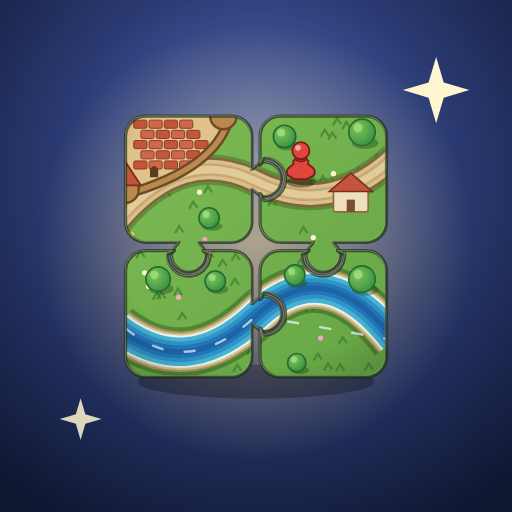
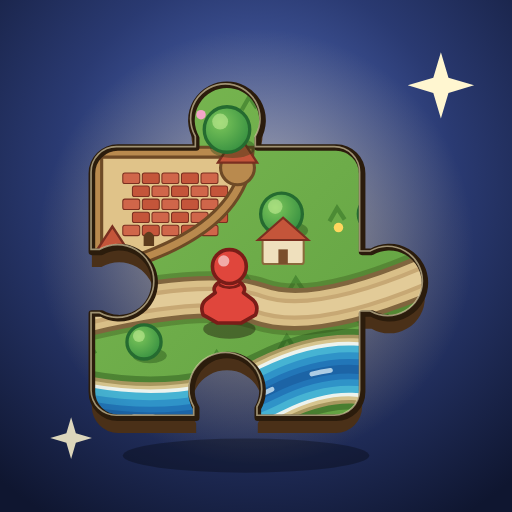
feat(brand): иконка — один большой пазл с игровой картой
Claude-Session: https://claude.ai/code/session_01ChnK81F671HkeSg92eKK8m

diff --git a/scripts/gen-icon.py b/scripts/gen-icon.py
@@ -1,24 +1,106 @@
 #!/usr/bin/env python3
-"""Builds the launcher icon (four game cards assembled into one puzzle) from the splash artwork in web/game.html.
-Writes store/src/icon.svg, icon-foreground.svg, icon-background.svg; then run `node scripts/render-icons.js`."""
-import re, pathlib
+"""Builds the launcher icon: ONE big jigsaw piece painted like a game card (city, road, river, trees, a meeple).
+Writes store/src/icon.svg, icon-foreground.svg, icon-background.svg; then run `node scripts/render-icons.cjs`."""
+import math, random, pathlib
 root = pathlib.Path(__file__).resolve().parent.parent
-html = (root / 'web/game.html').read_text(encoding='utf8')
-m = re.search(r'<svg class="bootpz"[^>]*>(.*?)</svg>', html, re.S)
-art = re.sub(r'<rect class="sh"[^>]*/>', '', m.group(1))
-S, CX, CY = 0.43, 54, 52          # scale of the 160-unit splash art and where its centre (78,78) lands in the 108 canvas
-T = f'translate({CX} {CY}) scale({S}) translate(-78 -78)'
-defs_extra = '''<radialGradient id="ibg" cx="50%" cy="34%" r="78%"><stop offset="0" stop-color="#5a74c4"/><stop offset=".5" stop-color="#2a3a72"/><stop offset="1" stop-color="#0f1630"/></radialGradient>
+random.seed(11)
+B, RC, NECK, NH, HR = 57, 5.5, 6.5, 2, 7.5           # body size, corner radius, half neck, neck length, knob radius
+KN = NH + math.sqrt(HR * HR - NECK * NECK) + HR  # how far a knob sticks out
+# knobs clockwise from the top: +1 out, -1 in (top out, right out, bottom in, left in)
+SIDES = [1, 1, -1, -1]
+OX, OY = 54 - B / 2 + 0, 54 - B / 2 + 0          # body origin before centring tweak
+# bounding box of the knobs: top and right stick out, so move the body down-left to centre the whole piece
+OX -= KN / 2 - .5; OY += KN / 2 - 1
+
+def pt(p0, d, n, u, v): return (p0[0] + d[0] * u + n[0] * v, p0[1] + d[1] * u + n[1] * v)
+def f(p): return f'{p[0]:.2f} {p[1]:.2f}'
+def piece_path(ox, oy):
+    c = [(ox, oy), (ox + B, oy), (ox + B, oy + B), (ox, oy + B)]
+    dirs = [(1, 0), (0, 1), (-1, 0), (0, -1)]
+    outs = [(0, -1), (1, 0), (0, 1), (-1, 0)]
+    out = ''
+    for i in range(4):
+        p0, d, n, s = c[i], dirs[i], outs[i], SIDES[i]
+        L, M = B, B / 2
+        a = pt(p0, d, n, RC, 0)
+        out += (f'M{f(a)}' if i == 0 else f'A{RC} {RC} 0 0 1 {f(a)}')
+        out += f'L{f(pt(p0, d, n, M - NECK, 0))}'
+        out += f'L{f(pt(p0, d, n, M - NECK, s * NH))}'
+        out += f'A{HR} {HR} 0 1 {1 if s > 0 else 0} {f(pt(p0, d, n, M + NECK, s * NH))}'
+        out += f'L{f(pt(p0, d, n, M + NECK, 0))}'
+        out += f'L{f(pt(p0, d, n, L - RC, 0))}'
+    out += f'A{RC} {RC} 0 0 1 {f(pt(c[0], dirs[0], outs[0], RC, 0))}Z'
+    return out
+
+def tufts(x0, y0, x1, y1, n):
+    s = ''
+    for _ in range(n):
+        x, y = random.uniform(x0, x1), random.uniform(y0, y1)
+        s += f'<path d="M{x-1.6:.1f} {y:.1f}L{x:.1f} {y-2.8:.1f}L{x+1.6:.1f} {y-.4:.1f}" stroke="#3f7d2c" stroke-width=".9" fill="none" opacity=".7"/>'
+    for _ in range(9):
+        x, y = random.uniform(x0, x1), random.uniform(y0, y1)
+        s += f'<circle cx="{x:.1f}" cy="{y:.1f}" r="1" fill="{random.choice(["#fff6d8","#ffd75e","#f3a6c8"])}"/>'
+    return s
+def tree(x, y, r=5):
+    return (f'<ellipse cx="{x+1.2}" cy="{y+r*.8}" rx="{r}" ry="{r*.45}" fill="rgba(20,60,15,.35)"/>'
+            f'<circle cx="{x}" cy="{y}" r="{r}" fill="url(#itree)" stroke="#256b30" stroke-width=".7"/>'
+            f'<circle cx="{x-r*.3}" cy="{y-r*.35}" r="{r*.35}" fill="rgba(210,245,160,.5)"/>')
+def house(x, y, k=1.0):
+    return (f'<g transform="translate({x} {y}) scale({k})"><rect x="0" y="0" width="14" height="9" rx=".8" fill="#efe0bd" stroke="#8a6a3c" stroke-width=".7"/>'
+            '<path d="M-1.6 .8L7 -6.8L15.6 .8Z" fill="#c4553a" stroke="#7a2f20" stroke-width=".7"/><rect x="5.4" y="4" width="3.2" height="5" fill="#7a4f2c"/></g>')
+def stroked(d, layers):
+    return ''.join(f'<path d="{d}" fill="none" stroke="{c}" stroke-width="{w}" stroke-linecap="butt"/>' for w, c in layers)
+ROAD = [(11, 'rgba(60,90,30,.4)'), (9, '#80653e'), (7, '#d9bf88'), (4.4, '#c7a874'), (2.6, '#e2cb98')]
+RIVER = [(17, 'rgba(30,70,20,.4)'), (14.5, '#a8975f'), (13, '#d6c48e'), (11.5, 'rgba(240,252,255,.85)'), (10, '#46b3d3'), (7, '#2f93c8'), (4.2, '#2276b8'), (1.8, '#1c64a6')]
+def city(bx, by):
+    k = .55
+    bricks = ''
+    for r, y in enumerate([16, 21, 26, 31, 36]):
+        for q in range(5):
+            x = 18 + q * 7.5 + (3.7 if r % 2 else 0)
+            bricks += f'<rect x="{x:.1f}" y="{y}" width="6.5" height="4" rx=".8" fill="{"#c4553a" if (q + r) % 2 else "#d0664a"}" stroke="#7a2f20" stroke-width=".4"/>'
+    wall = 'M8 8L66 8Q64 40 8 54Z'
+    return (f'<g transform="translate({bx-8*k+1:.1f} {by-8*k+1:.1f}) scale({k})"><path d="{wall}" fill="#e0c389"/>{bricks}'
+            f'<path d="{wall}" fill="none" stroke="#6e4a26" stroke-width="5"/><path d="{wall}" fill="none" stroke="#b98a4e" stroke-width="2.6"/>'
+            '<circle cx="62" cy="14" r="6.5" fill="#b98a4e" stroke="#6e4a26" stroke-width="1.2"/><path d="M54.5 12L62 .5L69.5 12Z" fill="#c4553a" stroke="#7a2f20" stroke-width=".9"/>'
+            '<circle cx="14" cy="50" r="6.5" fill="#b98a4e" stroke="#6e4a26" stroke-width="1.2"/><path d="M6.5 48L14 36.5L21.5 48Z" fill="#c4553a" stroke="#7a2f20" stroke-width=".9"/>'
+            '<path d="M26 44L30 44L30 40Q28 37 26 40Z" fill="#5d3c1d"/></g>')
+def meeple(x, y, k=1.0):
+    return (f'<g transform="translate({x} {y}) scale({k})"><ellipse cx="0" cy="1.5" rx="6.5" ry="2.4" fill="rgba(30,25,10,.45)"/>'
+      '<path d="M-3 0L-6.5-2Q-7.5-4.5-5.5-6L-3.5-7.5Q-4.5-9-2-10.5L2-10.5Q4.5-9 3.5-7.5L5.5-6Q7.5-4.5 6.5-2L3 0Z" fill="#e0463c" stroke="#7a1d18" stroke-width=".9" stroke-linejoin="round"/>'
+      '<circle cx="0" cy="-14" r="4.2" fill="#e0463c" stroke="#7a1d18" stroke-width=".9"/><circle cx="-1.4" cy="-15.4" r="1.4" fill="rgba(255,255,255,.55)"/>'
+      '<path d="M-2.6-9.5Q0-8 2.6-9.5" stroke="#7a1d18" stroke-width=".7" fill="none"/></g>')
+
+ox, oy = OX, OY
+P = piece_path(ox, oy)
+road = f'M{ox-4} {oy+36}Q{ox+24} {oy+29} {ox+B*.62:.1f} {oy+33}T{ox+B+KN} {oy+27}'
+river = f'M{ox-4} {oy+B-2}Q{ox+20} {oy+B+3} {ox+38} {oy+B-6}T{ox+B+KN} {oy+B-5}'
+art = (f'<rect x="0" y="0" width="108" height="108" fill="url(#igrass)"/>' + tufts(ox - 8, oy - 12, ox + B + 13, oy + B, 26) +
+       stroked(road, ROAD) + stroked(river, RIVER) +
+       f'<path d="{river}" fill="none" stroke="rgba(235,250,255,.7)" stroke-width="1" stroke-dasharray="4 9" stroke-linecap="round"/>' +
+       city(ox, oy) + tree(ox + B / 2, oy - NH - 1.8, 4.8) + tree(ox + B + 3, oy + 14, 3.8) + tree(ox + 40, oy + 14, 4.4) + tree(ox + 11, oy + 41, 3.6) +
+       house(ox + 36, oy + 19, .62) + meeple(ox + 29, oy + 37, .85) +
+       '<rect width="108" height="108" fill="url(#ivig)"/>')
+defs = f'''<defs>
+<radialGradient id="ibg" cx="50%" cy="34%" r="78%"><stop offset="0" stop-color="#5a74c4"/><stop offset=".5" stop-color="#2a3a72"/><stop offset="1" stop-color="#0f1630"/></radialGradient>
 <radialGradient id="iglow" cx="50%" cy="50%" r="50%"><stop offset="0" stop-color="#ffd878" stop-opacity=".55"/><stop offset="1" stop-color="#ffd878" stop-opacity="0"/></radialGradient>
-<linearGradient id="irim" x1="0" y1="0" x2="0" y2="1"><stop offset="0" stop-color="#fff2c4"/><stop offset="1" stop-color="#e9a52e"/></linearGradient>'''
-spark = '<path d="M92 12L93.6 17.4L99 19L93.6 20.6L92 26L90.4 20.6L85 19L90.4 17.4Z" fill="#fff6d0"/><path d="M17 84L18 87.4L21.4 88.4L18 89.4L17 92.8L16 89.4L12.6 88.4L16 87.4Z" fill="#fff6d0" opacity=".85"/>'
-bg = f'<svg xmlns="http://www.w3.org/2000/svg" viewBox="0 0 108 108" width="108" height="108"><defs>{defs_extra}</defs><rect width="108" height="108" fill="url(#ibg)"/><circle cx="54" cy="51" r="46" fill="url(#iglow)"/></svg>'
-fg_body = (f'<ellipse cx="54" cy="80.5" rx="25" ry="3.6" fill="#000" opacity=".28"/>'
-           f'<g transform="{T}">{art}</g>{spark}')
-fg = f'<svg xmlns="http://www.w3.org/2000/svg" viewBox="0 0 108 108" width="108" height="108"><defs>{defs_extra}</defs>{fg_body}</svg>'
-full = f'<svg xmlns="http://www.w3.org/2000/svg" viewBox="0 0 108 108" width="108" height="108"><defs>{defs_extra}</defs><rect width="108" height="108" fill="url(#ibg)"/><circle cx="54" cy="51" r="46" fill="url(#iglow)"/>{fg_body}</svg>'
+<linearGradient id="igrass" x1="0" y1="0" x2="1" y2="1"><stop offset="0" stop-color="#80be56"/><stop offset="1" stop-color="#5a9a3c"/></linearGradient>
+<radialGradient id="itree" cx=".35" cy=".35" r=".8"><stop offset="0" stop-color="#7cc65a"/><stop offset="1" stop-color="#2f8a3e"/></radialGradient>
+<linearGradient id="igold" x1="0" y1="0" x2="0" y2="1"><stop offset="0" stop-color="#fff2c4"/><stop offset=".5" stop-color="#f2c45a"/><stop offset="1" stop-color="#d98e1f"/></linearGradient>
+<radialGradient id="ivig" cx=".5" cy=".42" r=".7"><stop offset=".62" stop-color="#000" stop-opacity="0"/><stop offset="1" stop-color="#0a1e08" stop-opacity=".3"/></radialGradient>
+<clipPath id="ipc"><path d="{P}"/></clipPath></defs>'''
+spark = ('<path d="M93 11L94.6 16.4L100 18L94.6 19.6L93 25L91.4 19.6L86 18L91.4 16.4Z" fill="#fff6d0"/>'
+         '<path d="M15 88L16 91.4L19.4 92.4L16 93.4L15 96.8L14 93.4L10.6 92.4L14 91.4Z" fill="#fff6d0" opacity=".85"/>')
+piece = (f'<ellipse cx="{ox+B/2+4:.1f}" cy="{oy+B+8:.1f}" rx="26" ry="3.6" fill="#000" opacity=".3"/>'
+         f'<g transform="translate(0 3.2)"><path d="{P}" fill="#4a3018"/></g>'          # card thickness
+         f'<path d="{P}" fill="url(#igold)"/>'
+         f'<g clip-path="url(#ipc)" transform="translate(0 0)"><g transform="translate({54-54} 0)">{art}</g></g>'
+         f'<path d="{P}" fill="none" stroke="#2b1c0c" stroke-width="1.4" stroke-linejoin="round"/>'
+         f'<path d="{P}" fill="none" stroke="rgba(255,244,200,.55)" stroke-width=".7" transform="translate(-.35 -.35)" clip-path="url(#ipc)"/>')
+S = f'xmlns="http://www.w3.org/2000/svg" viewBox="0 0 108 108" width="108" height="108"'
+bg = f'<rect width="108" height="108" fill="url(#ibg)"/><circle cx="54" cy="52" r="46" fill="url(#iglow)"/>'
 out = root / 'store/src'
-(out / 'icon-background.svg').write_text(bg, encoding='utf8')
-(out / 'icon-foreground.svg').write_text(fg, encoding='utf8')
-(out / 'icon.svg').write_text(full, encoding='utf8')
-print('ok')
+(out / 'icon-background.svg').write_text(f'<svg {S}>{defs}{bg}</svg>', encoding='utf8')
+(out / 'icon-foreground.svg').write_text(f'<svg {S}>{defs}{piece}{spark}</svg>', encoding='utf8')
+(out / 'icon.svg').write_text(f'<svg {S}>{defs}{bg}{piece}{spark}</svg>', encoding='utf8')
+print('ok', round(ox, 1), round(oy, 1), round(KN, 1))

diff --git a/docs/product/AGENT-PROMPT.md b/docs/product/AGENT-PROMPT.md
@@ -34,7 +34,7 @@ docs/coordination/HANDOFF.md. Перед коммитом: `npm run build && nod
    пометкой, не оставляя игрока в пустой комнате.
 5. Загрузочный экран и иконка: экран — сцена из игры (карты с городом, дорогой, рекой,
    фишкой), не дольше 2 секунд при готовой загрузке, пропуск касанием, честная полоска
-   при медленной сети, режим «меньше движения». Иконка — пазл из четырёх игровых карт
+   при медленной сети, режим «меньше движения». Иконка — один большой пазл с игровой картой внутри
    (scripts/gen-icon.py → scripts/render-icons.cjs). Не ставить дома, деревья и крепость
    на реку.
 6. Материалы для Google Play: карточка, скриншоты, 15-секундное видео, политика

diff --git a/release-notes.md b/release-notes.md
@@ -1,2 +1,2 @@
 - Загрузочный экран как сама игра: карты с городом, дорогой, рекой, домиками и деревьями слетаются в одну картинку, на дорогу прыгает фишка, по картам пробегает блик
-- Новая иконка приложения: четыре игровые карты собраны в один пазл с городом, дорогой, рекой и красной фишкой
+- Новая иконка приложения: один большой пазл с игровой картой внутри — город, дорога с фишкой, река, деревья и золотая кромка
